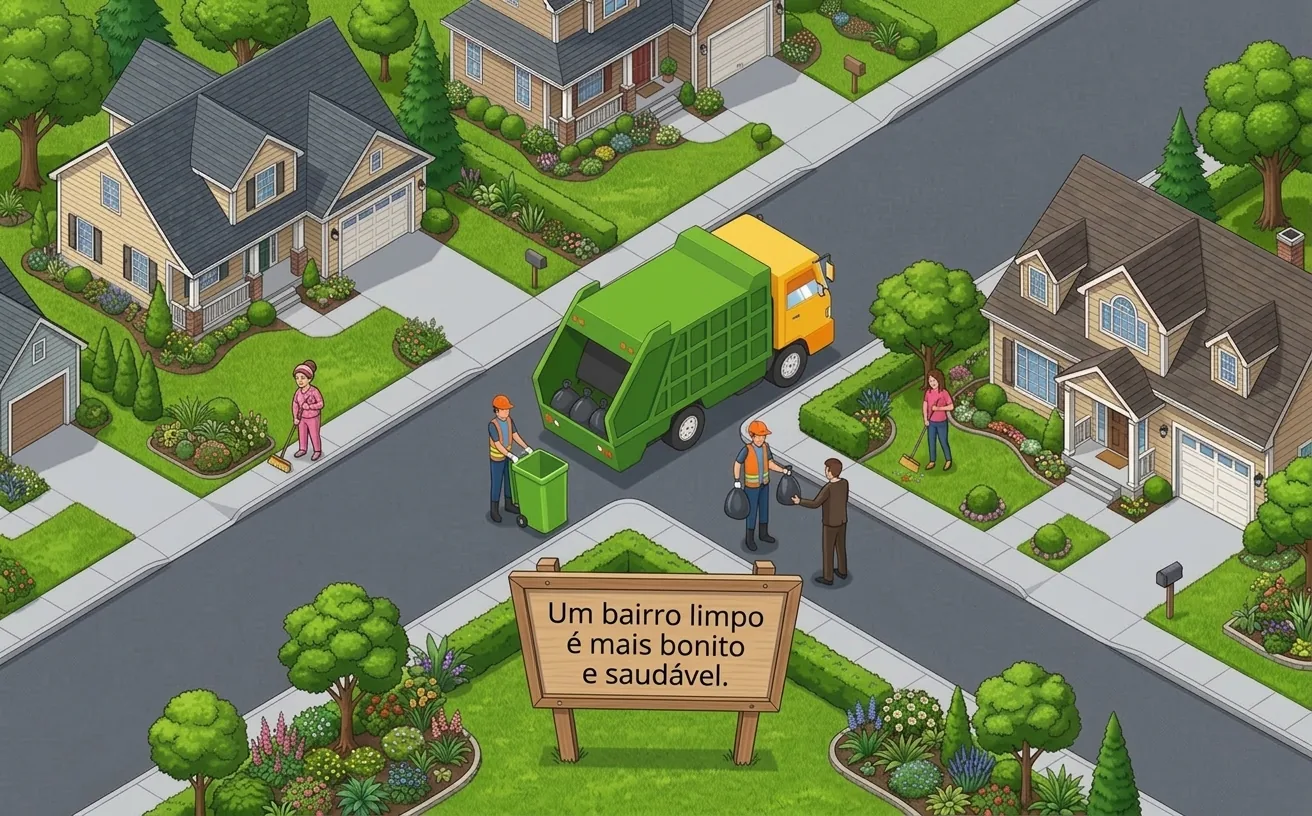
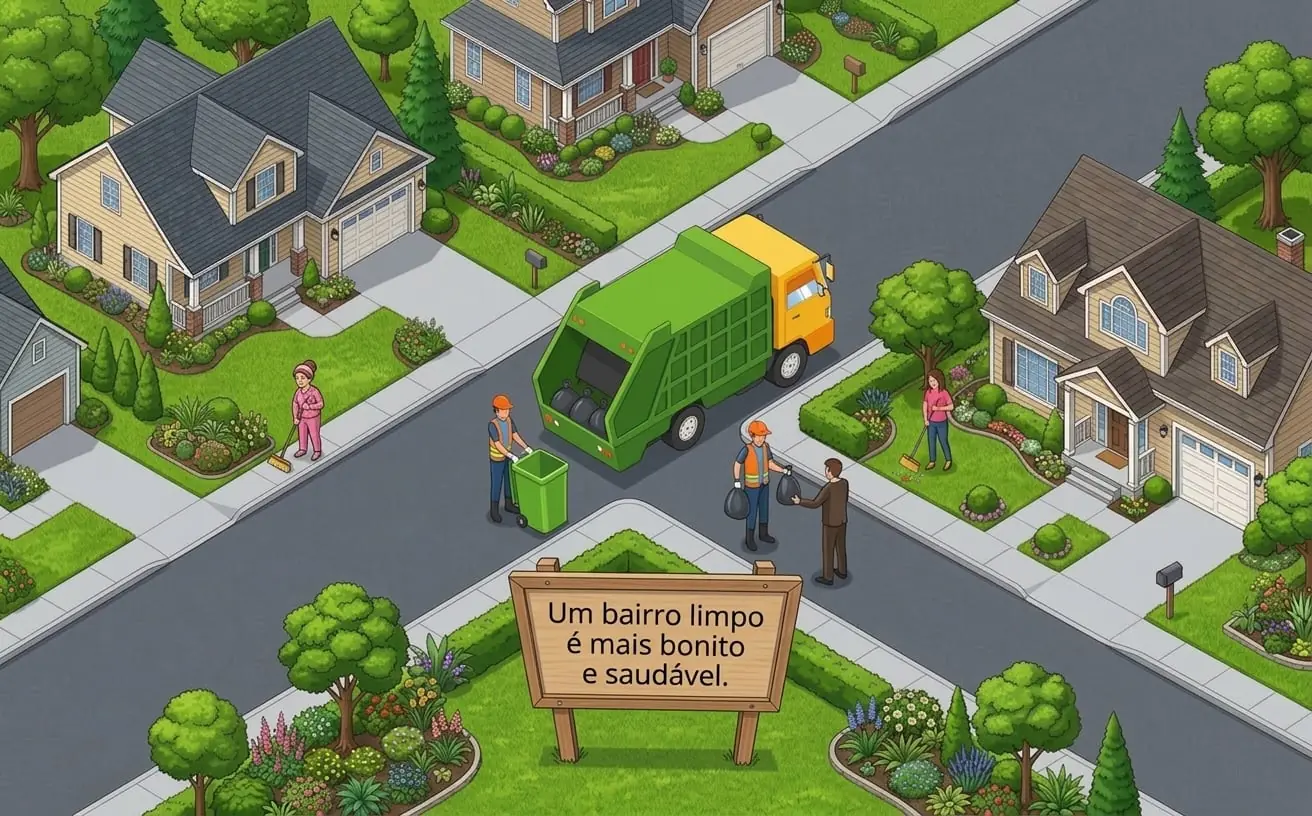
perf: otimizar imagem e adaptar resolucoes

diff --git a/html/index.html b/html/index.html
@@ -66,7 +66,11 @@
 
     <div class="destaque grade-12">
       <picture class="destaque__imagem">
-        <source srcset="../imagens/imagem_limpeza_do_bairro.webp" type="image/webp">
+        <source type="image/webp"
+          srcset="../imagens/imagem_limpeza_do_bairro-480.webp 480w,
+                  ../imagens/imagem_limpeza_do_bairro-800.webp 800w,
+                  ../imagens/imagem_limpeza_do_bairro.webp 1312w"
+          sizes="(min-width: 1440px) 1062px, (min-width: 1024px) 80vw, 90vw">
         <img src="../imagens/imagem_limpeza_do_bairro.jpg"
           alt="Ilustração de moradores e trabalhadores cuidando da limpeza de um bairro. Uma placa diz: Um bairro limpo é mais bonito e saudável."
           width="1312" height="816">

diff --git a/README.md b/README.md
@@ -19,6 +19,7 @@ A primeira entrega foi marcada como v0.1.0. O projeto continua em desenvolviment
 - Validação dos campos e mensagens de erro no formulário.
 - Rascunhos dos formulários salvos no navegador.
 - Layout que se adapta a diferentes tamanhos de tela.
+- Imagem em WebP com versões menores para diferentes telas.
 - Modo escuro automático, seguindo a preferência do sistema ou navegador.
 - Geração de HTML, CSS e JavaScript minificados para publicação.
 
@@ -29,6 +30,12 @@ HTML, CSS e JavaScript, sem frameworks no site. Para preparar os arquivos de pub
 ## Modo escuro
 
 O site acompanha o tema escolhido no sistema ou navegador. No modo escuro, os fundos ficam mais escuros e os textos, links e ícones usam cores mais claras. Isso foi feito no CSS, aproveitando as variáveis de cor. Para testar, mude a preferência de tema do sistema ou do navegador.
+
+## Imagens
+
+A ilustração da página inicial usa WebP, com versões de 480, 800 e 1312 pixels de largura. O navegador escolhe pelo espaço que a imagem ocupa na tela e pela densidade de pixels do dispositivo. O JPEG fica como alternativa caso o navegador não suporte WebP. Os ícones continuam em SVG, porque já são pequenos e podem mudar de tamanho sem perder definição.
+
+As versões WebP foram geradas a partir do JPEG com Sharp, usando qualidade 75 e mantendo a proporção. A imagem maior passou de 201.510 para 146.962 bytes. As versões menores já ficam prontas na pasta imagens; o build apenas copia esses arquivos.
 
 ## Como abrir
 
